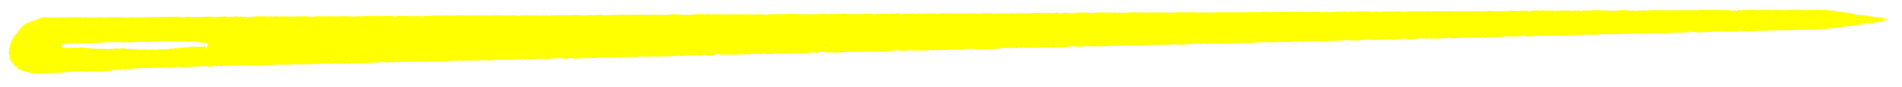
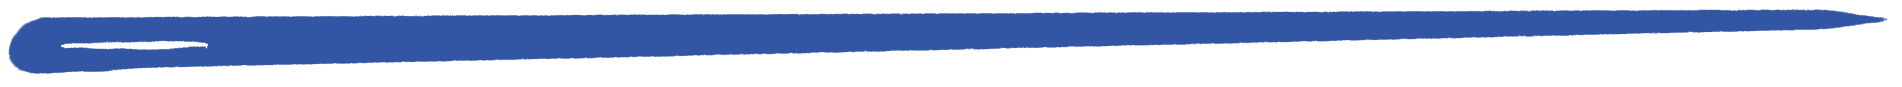
fixing it up!

diff --git a/CSS/index.css b/CSS/index.css
@@ -1,8 +1,7 @@
 :root {
-    --purple: #7e78f2;
-    --yellow: #FFFF00;
-    --body: #000000;
-    --background: hsl(345, 61%, 28%);
+    --pink: #ff48b0;
+    --blue: #3255a4;
+    --background: #e6e6e6;
 } /* figuring out colour through this, made it easy for me to change colours */
 
 #quote {
@@ -11,11 +10,11 @@
 
 /*styles for side menu*/
 .menu {
-    color: #FFFF00;
+    color: --blue;
     line-height: 1.2em;
     font-family: "futura-pt", sans-serif;
     font-weight: normal;
-    font-size: 1em;
+    font-size: 2em;
     text-decoration: none;
     padding-right: 20px;
     float: left;
@@ -27,17 +26,21 @@
     }
 
     .menu a:visited { 
-        color: #FFFF00;
+        color: --blue;
     }
 
     .menu a {
-        color: #FFFF00;
+        color: --blue;
         text-decoration: none;
     }
 
     .menu a:hover {
-        color: var(--purple);
+        color: var(--pink);
         font-style: italic;
+    }
+
+    .menu a:visited {
+        color: var(--blue);
     }
 
 /* left-content and right-content are positoned using float and padding for gutters*/
@@ -45,6 +48,7 @@
 .left-content {
     padding-left: 20px;
     padding-right: 20px;
+    top: 3em;
     float: left;
     width: 15%; 
 }
@@ -70,7 +74,7 @@ disabling float when the screen size is 900px or less*/
 
 /*styles applied to body text and background for website*/
 body {
-    color: #FFFF00;
+    color: var(--blue);
     background-color: var(--background);
     font-family: "futura-pt", sans-serif;
     font-weight: 300;
@@ -79,7 +83,7 @@ body {
 }
 
 .ingredients h2 {
-    font-weight: 400;
+    font-weight: 500;
     font-size: 40px;
 }
 
@@ -94,17 +98,17 @@ body {
     font-size: 2em;
     font-weight: 400;
     width: 600px;
-    color:#FFFF00;
+    color:--blue;
 }
 
 h2 {
     font-family: "futura-pt", sans-serif;
-    font-weight: 400;
+    font-weight: 500;
     font-size: 1.6em;
 }
 
 .left-content img {
-    max-width: 50%;
+    max-width: 70%;
 }
 
 .tennisBall {

diff --git a/zine.html b/zine.html
@@ -1,0 +1,47 @@
+<!DOCTYPE html>
+<html lang="en">
+   <head>
+      <meta charset="UTF-8">
+      <meta http-equiv="X-UA-Compatible" content="IE=edge">
+      <meta name="viewport" content="width=device-width, initial-scale=1.0">
+      <title>Repair Guide</title>
+      <link rel="stylesheet" type="text/css" href="CSS/index.css" />
+      <link rel="stylesheet" href="https://use.typekit.net/sdx3kwf.css">
+   </head>
+   <body>
+      <div class="menu">
+         <ul>
+            <li>
+               <a href="index.html">REPAIR GUIDE</a>
+            </li>
+            <li>
+               <a href="ladderstitch.html">LADDER STITCH</a>
+            </li>
+            <li>
+               <a href="buttons.html">BUTTONS</a>
+            </li>
+            <li>
+               <a href="holes-rips.html">HOLES / RIPS</a>
+            </li>
+            <li>
+               <a href="hem.html">HEM</a>
+            </li>
+            <li>
+                <a href="zine.html">ZINE</a>
+             </li>
+         </ul>
+       </div>
+
+         <div class="left-content">
+            <div class="ingredients" id="basicReqs">
+               <h2>Zine Printed Resource</h2>
+               <p>Risograph zine with a poster. I converted my web resource into a printed guide </p>
+            </div>
+      </div>
+         
+      <div class="right-content">
+            <img src="imgs/zine.gif" alt="zine gif">
+         </div>
+
+   </body>
+</html>

diff --git a/index.html b/index.html
@@ -26,6 +26,9 @@
             <li>
                <a href="hem.html">HEM</a>
             </li>
+            <li>
+               <a href="zine.html">ZINE</a>
+            </li>
          </ul>
        </div>
 

diff --git a/buttons.html b/buttons.html
@@ -25,6 +25,9 @@
      <li>
         <a href="hem.html">HEM</a>
      </li>
+     <li>
+      <a href="zine.html">ZINE</a>
+   </li>
   </ul>
 </div>
 <body>

diff --git a/hem.html b/hem.html
@@ -25,6 +25,9 @@
      <li>
         <a href="hem.html">HEM</a>
      </li>
+     <li>
+      <a href="zine.html">ZINE</a>
+   </li>
   </ul>
 </div>
 <body>

diff --git a/holes-rips.html b/holes-rips.html
@@ -25,6 +25,9 @@
      <li>
         <a href="hem.html">HEM</a>
      </li>
+     <li>
+      <a href="zine.html">ZINE</a>
+   </li>
   </ul>
 </div>
 <body>

diff --git a/ladderstitch.html b/ladderstitch.html
@@ -25,6 +25,9 @@
      <li>
         <a href="hem.html">HEM</a>
      </li>
+     <li>
+      <a href="zine.html">ZINE</a>
+   </li>
   </ul>
 </div>
 <body>
